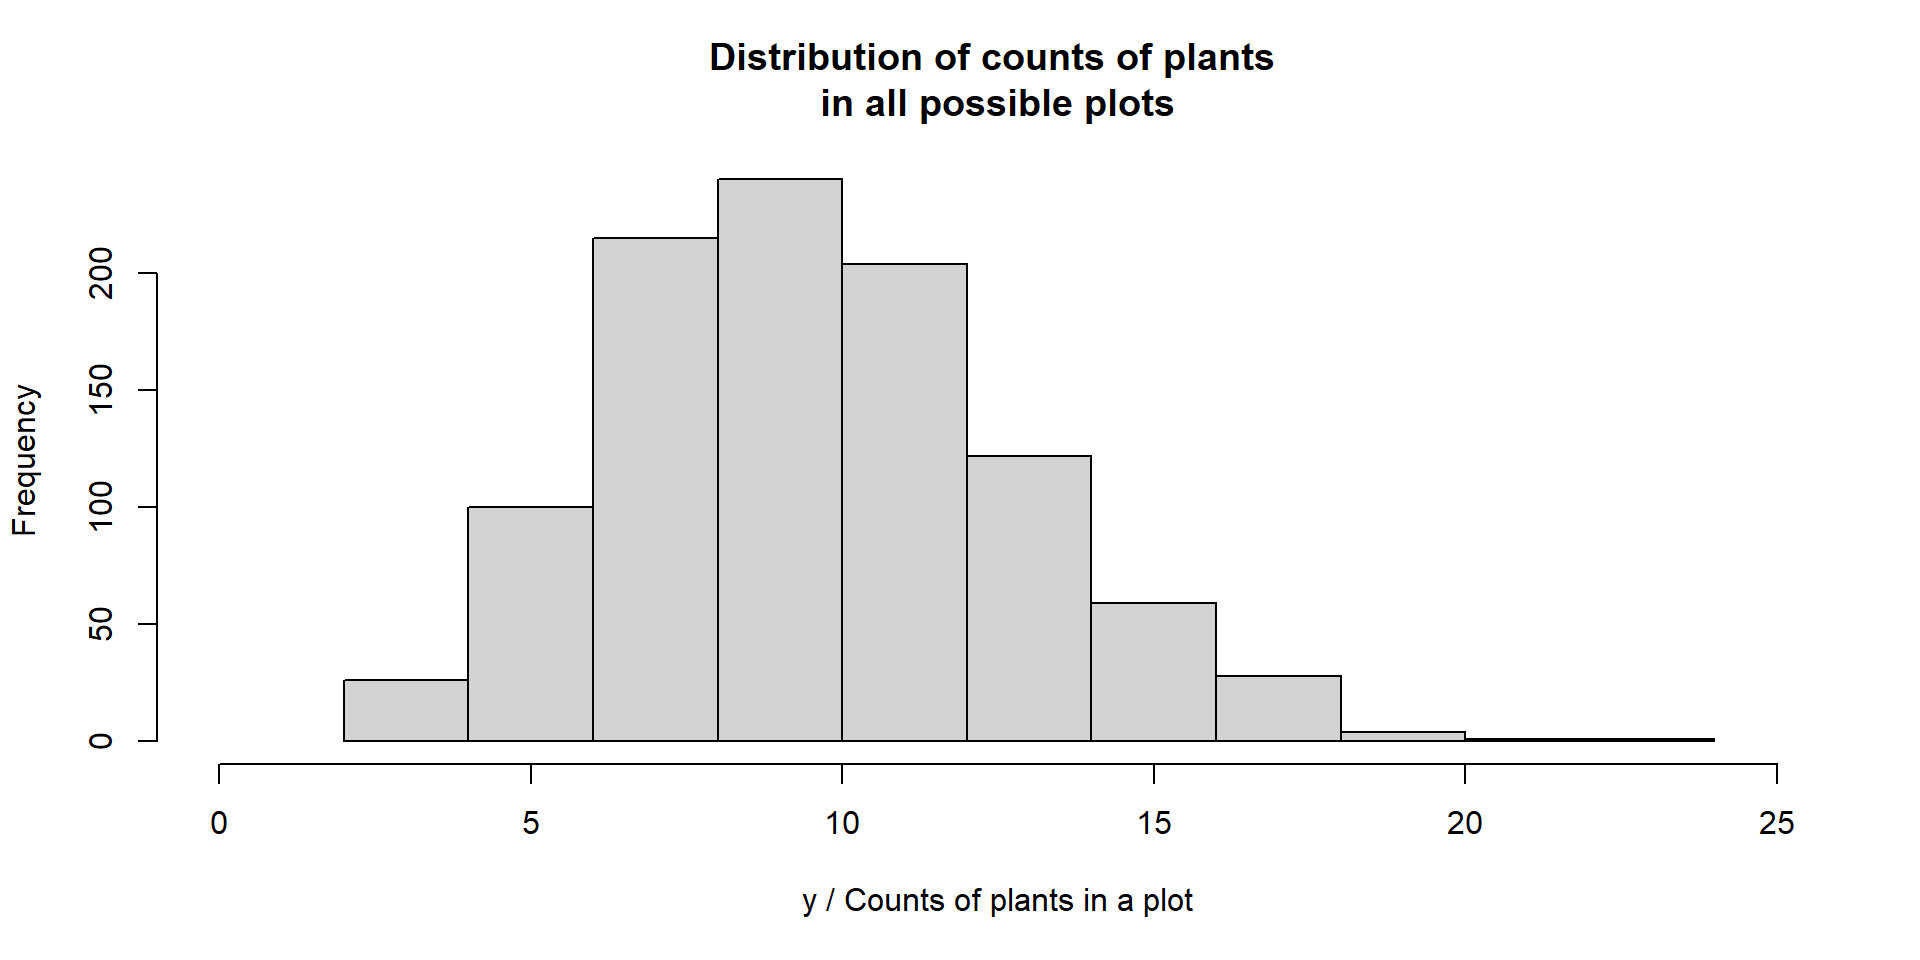
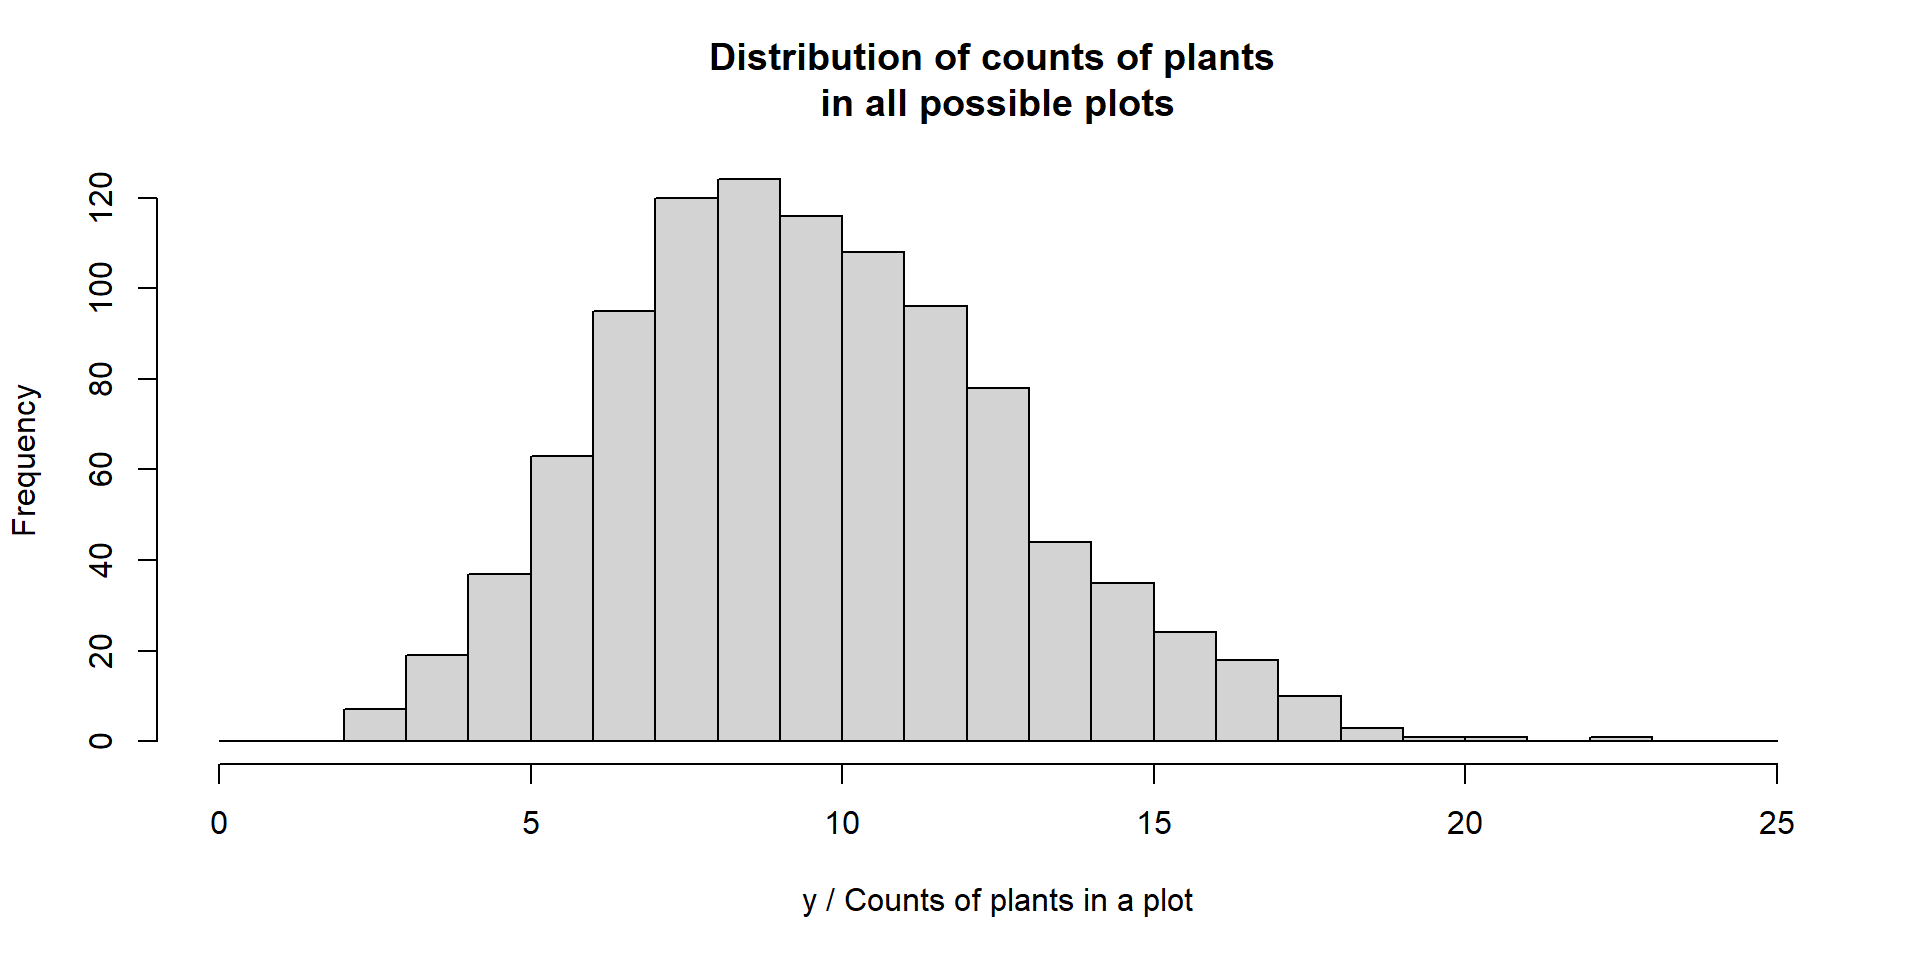
prob

diff --git a/FW670/Probability-speaker.html b/FW670/Probability-speaker.html
@@ -319,7 +319,7 @@ The values observed can be understand based on the frequency within the <span st
 <section id="frequency-probabilities" class="slide level2 scrollable">
 <h2>Frequency / Probabilities</h2>
 <div class="cell">
-<div class="code-copy-outer-scaffold"><div class="sourceCode cell-code" id="cb1"><pre class="sourceCode numberSource r number-lines code-with-copy"><code class="sourceCode r"><span id="cb1-1"><a></a><span class="fu">hist</span>(y, <span class="at">xlim=</span><span class="fu">c</span>(<span class="dv">0</span>,<span class="dv">25</span>),<span class="at">main=</span>main,<span class="at">xlab=</span><span class="st">"y / Counts of plants in a plot"</span>)</span></code></pre></div><button title="Copy to Clipboard" class="code-copy-button"><i class="bi"></i></button></div>
+<div class="code-copy-outer-scaffold"><div class="sourceCode cell-code" id="cb1"><pre class="sourceCode numberSource r number-lines code-with-copy"><code class="sourceCode r"><span id="cb1-1"><a></a><span class="fu">hist</span>(y, <span class="at">xlim=</span><span class="fu">c</span>(<span class="dv">0</span>,<span class="dv">25</span>),<span class="at">breaks =</span> <span class="fu">seq</span>(<span class="at">from=</span><span class="dv">0</span>, <span class="at">to=</span><span class="dv">25</span>, <span class="at">by =</span> <span class="dv">1</span>),<span class="at">main=</span>main,<span class="at">xlab=</span><span class="st">"y / Counts of plants in a plot"</span>)</span></code></pre></div><button title="Copy to Clipboard" class="code-copy-button"><i class="bi"></i></button></div>
 
 </div>
 <img data-src="Probability_files/figure-revealjs/unnamed-chunk-2-1.png" width="960" class="r-stretch"></section>

diff --git a/docs/FW670/Probability.html b/docs/FW670/Probability.html
@@ -319,7 +319,7 @@ The values observed can be understand based on the frequency within the <span st
 <section id="frequency-probabilities" class="slide level2 scrollable">
 <h2>Frequency / Probabilities</h2>
 <div class="cell">
-<div class="code-copy-outer-scaffold"><div class="sourceCode cell-code" id="cb1"><pre class="sourceCode numberSource r number-lines code-with-copy"><code class="sourceCode r"><span id="cb1-1"><a></a><span class="fu">hist</span>(y, <span class="at">xlim=</span><span class="fu">c</span>(<span class="dv">0</span>,<span class="dv">25</span>),<span class="at">main=</span>main,<span class="at">xlab=</span><span class="st">"y / Counts of plants in a plot"</span>)</span></code></pre></div><button title="Copy to Clipboard" class="code-copy-button"><i class="bi"></i></button></div>
+<div class="code-copy-outer-scaffold"><div class="sourceCode cell-code" id="cb1"><pre class="sourceCode numberSource r number-lines code-with-copy"><code class="sourceCode r"><span id="cb1-1"><a></a><span class="fu">hist</span>(y, <span class="at">xlim=</span><span class="fu">c</span>(<span class="dv">0</span>,<span class="dv">25</span>),<span class="at">breaks =</span> <span class="fu">seq</span>(<span class="at">from=</span><span class="dv">0</span>, <span class="at">to=</span><span class="dv">25</span>, <span class="at">by =</span> <span class="dv">1</span>),<span class="at">main=</span>main,<span class="at">xlab=</span><span class="st">"y / Counts of plants in a plot"</span>)</span></code></pre></div><button title="Copy to Clipboard" class="code-copy-button"><i class="bi"></i></button></div>
 
 </div>
 <img data-src="Probability_files/figure-revealjs/unnamed-chunk-2-1.png" width="960" class="r-stretch"></section>
